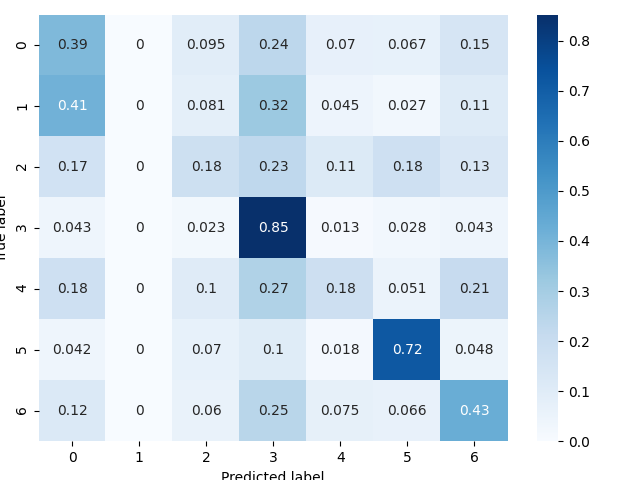
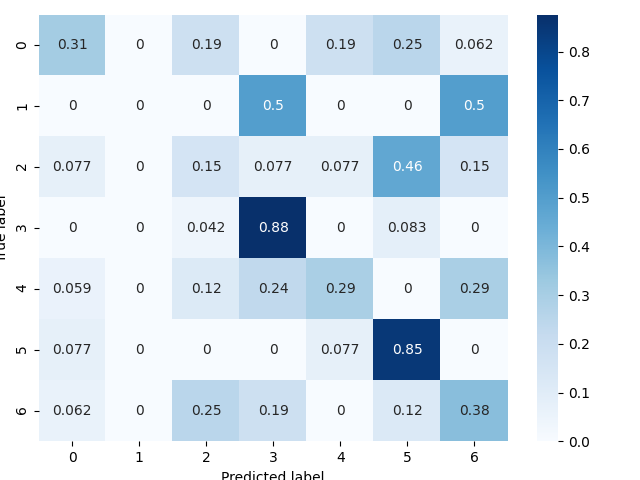
can now plot roc curve

diff --git a/run.py b/run.py
@@ -227,12 +227,38 @@ def setPredictionsOnImages(_classifier, _images, usingCNN=False, image_shape=(48
         image.p_emotion = p
 
 
- # def plotRocCurve(model, test_features, test_targets, name, image_shape, _show):
-    # from sklearn.metrics import roc_curve, auc
+def plotRocCurve(model, test_features, test_targets, name='roc_curve_', image_shape=(48, 48), numOfClasses=7, _show=False):
+    from sklearn.metrics import roc_curve, auc
+    from sklearn.preprocessing import label_binarize
+    from scipy.optimize import curve_fit
 
-    # predictions = model.predict(test_features)
-    # fpr_keras, tpr_keras, thresholds_keras = roc_curve(test_targets.ravel(), predictions.ravel())
+    predictions = model.predict(test_features)
+    test_targets_bin = label_binarize(test_targets, classes=[0,1,2,3,4,5,6])
 
+    fpr = dict()
+    tpr = dict()
+    roc_auc = dict()
+    for i in range(0, numOfClasses):
+        fpr[i], tpr[i], _ = roc_curve(test_targets_bin[:,i], predictions[:,i])
+        roc_auc[i] = auc(fpr[i], tpr[i])
+
+    colors = ["#"+''.join([random.choice('0123456789ABCDEF') for j in range(6)])
+             for i in range(numOfClasses)]
+
+    for i in range(0, numOfClasses):
+        plt.plot(fpr[i], tpr[i], color=colors[i], lw=2, label='ROC class '+str(i)+' w area = '+str(roc_auc[i]))
+
+    plt.plot([0, 1], [0, 1], 'k--', lw=2)
+    plt.xlabel('False Positive Rate')
+    plt.ylabel('True Positive Rate')
+    plt.legend(loc="lower right")
+
+    fig = plt.gcf()
+    if _show:
+        plt.show()
+    save_path = 'images/'+ name + ''+ datetime.now().strftime("%Y%m%d-%H%M%S") + '.png'
+    print("saving roc curve figure as", save_path)
+    fig.savefig(save_path)
 
 def plotConfusionMatrix(model, test_features, test_targets, name='confusion_mat_', image_shape=(48,48), _show=False):
     import seaborn as sns
@@ -265,21 +291,22 @@ def plotConfusionMatrix(model, test_features, test_targets, name='confusion_mat_
     plt.tight_layout()
     plt.ylabel('True label')
     plt.xlabel('Predicted label')
+
+    fig = plt.gcf()
     if _show:
         plt.show()
     save_path = 'images/'+ name + ''+ datetime.now().strftime("%Y%m%d-%H%M%S") + '.png'
     print("saving conf mat figures as", save_path)
-    plt.savefig(save_path)
+    fig.savefig(save_path)
 
-def evaluateModel(model, test_images, name='confusion_mat_', image_shape=(48,48), _show=False):
+def evaluateModel(model, test_images, image_shape=(48,48), _show=False):
     test_features, test_targets, test_usage = getImagesAsCvDataLists(test_images)
     test_features = np.array(test_features) / 255
     test_features = tf.reshape(test_features, (-1, image_shape[0], image_shape[1], 1))
     test_targets = np.array(test_targets)
     
-    plotConfusionMatrix(model, test_features, test_targets, name, image_shape, _show)
-    # plotRocCurve(model, test_features, test_targets, name, image_shape, _show)
-
+    plotConfusionMatrix(model, test_features, test_targets, image_shape=image_shape, _show=_show)
+    plotRocCurve(model, test_features, test_targets, image_shape=image_shape, numOfClasses=7, _show=_show)
  
 def solution1(train_images, test_images):
     # train
@@ -322,9 +349,14 @@ def main():
     images = readImagesFromCsv("resources/icml_face_data.csv")
 
     test_images = []
+    max_n = 100
+    n = 0
     for image in images:
         if image.usage == 'PrivateTest' or image.usage == 'PublicTest':
             test_images.append(image)
+            n+=1
+            if n > max_n:
+                break
     
     # solution1(train_images, test_images)
     # solution2(train_images, test_images)
